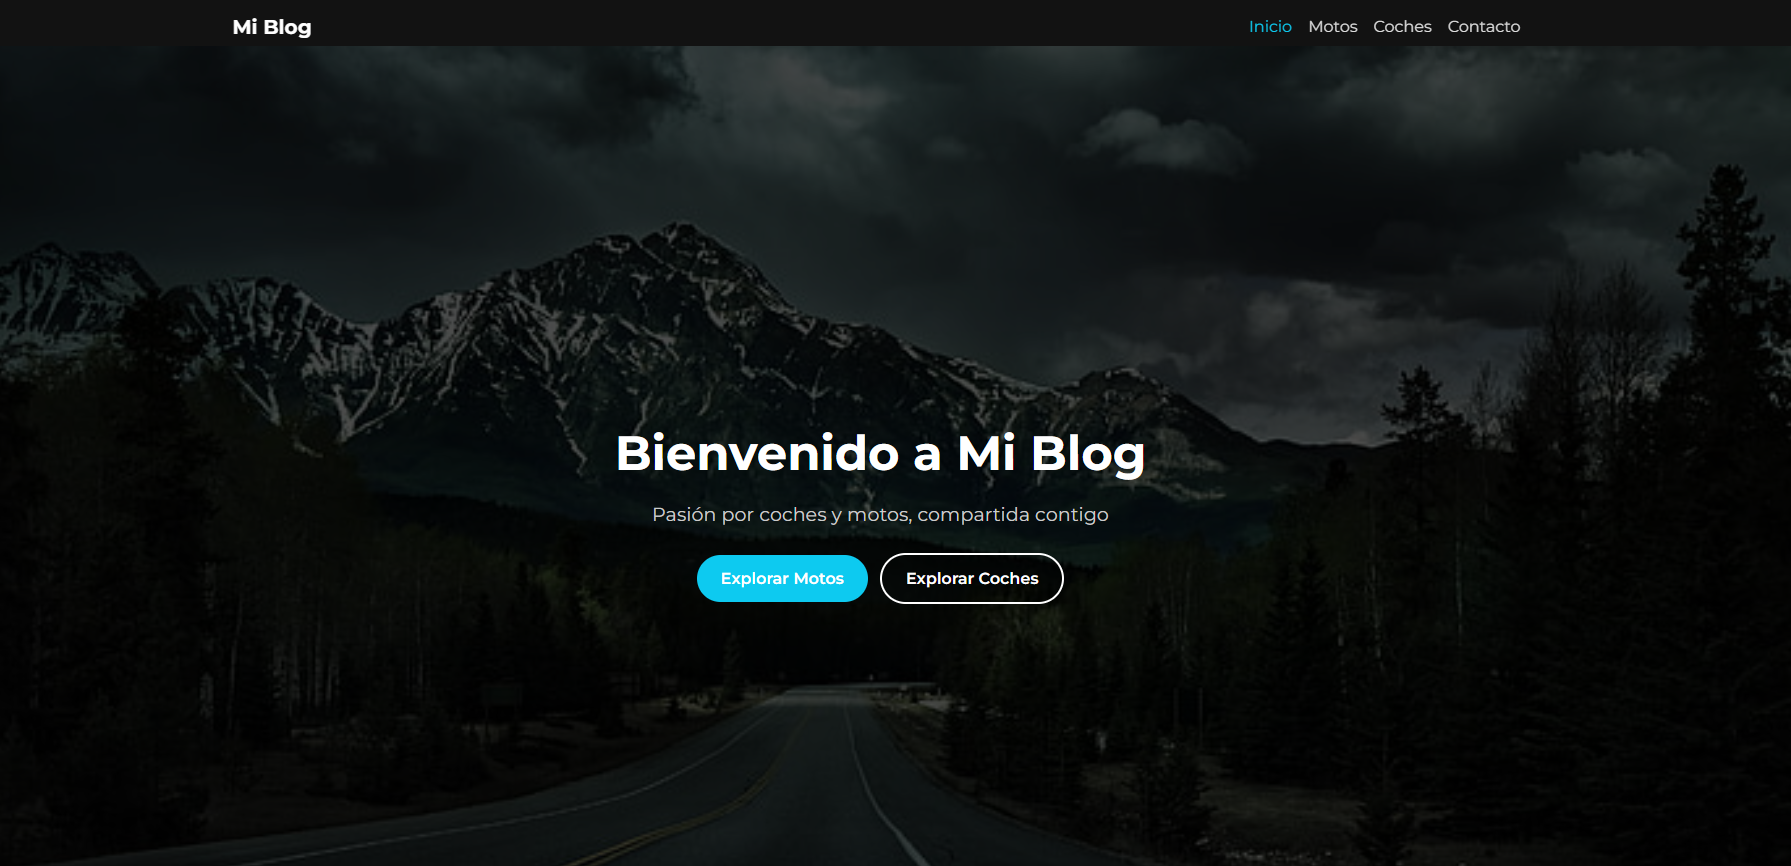
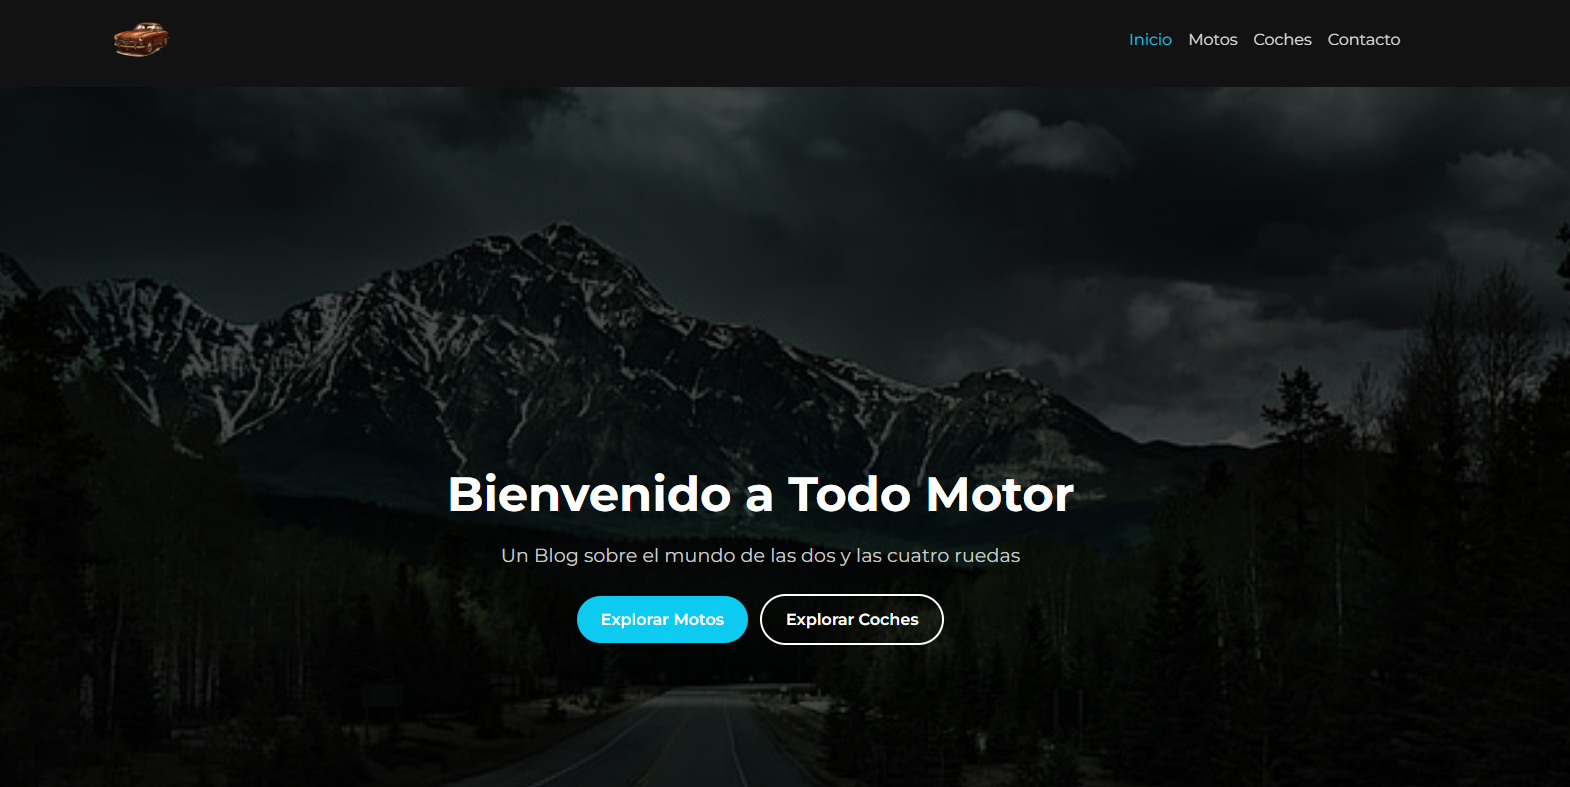
cambio de foto y descripcion en el proyecto a todo motor

diff --git a/src/components/Projects.js b/src/components/Projects.js
@@ -9,15 +9,16 @@ export default function Projects() {
       demo: "https://www.jorgegarciastihl.es/",
       github: "https://github.com/J-Catena/Web-Stihl",
     },
-     {
-      title: "Mi Blog",
-      desc: "Blog personal desarrollado con Django, Python y Bootstrap 5. Incluye categorías, buscador, sistema de posts y diseño responsive.",
+    {
+      title: "Todo Motor",
+      desc: "Todo Motor es un blog sobre coches y motos construido con Django y Bootstrap 5. Ofrece un sistema completo de posts con categorías, buscador integrado y diseño responsive, pensado para una experiencia fluida tanto en escritorio como en móviles.",
       img: "/images/foto-proyecto-blog.png",
       demo: "https://jcatena.pythonanywhere.com/",
       github: "https://github.com/J-Catena/Blog-Django",
     },
-    
-    
+
+
+
   ];
 
   return (
@@ -37,9 +38,8 @@ export default function Projects() {
         </motion.h2>
 
         <div
-          className={`grid gap-10 ${
-            projects.length > 1 ? "md:grid-cols-2" : "max-w-xl mx-auto"
-          }`}
+          className={`grid gap-10 ${projects.length > 1 ? "md:grid-cols-2" : "max-w-xl mx-auto"
+            }`}
         >
           {projects.map((project, index) => (
             <motion.div
